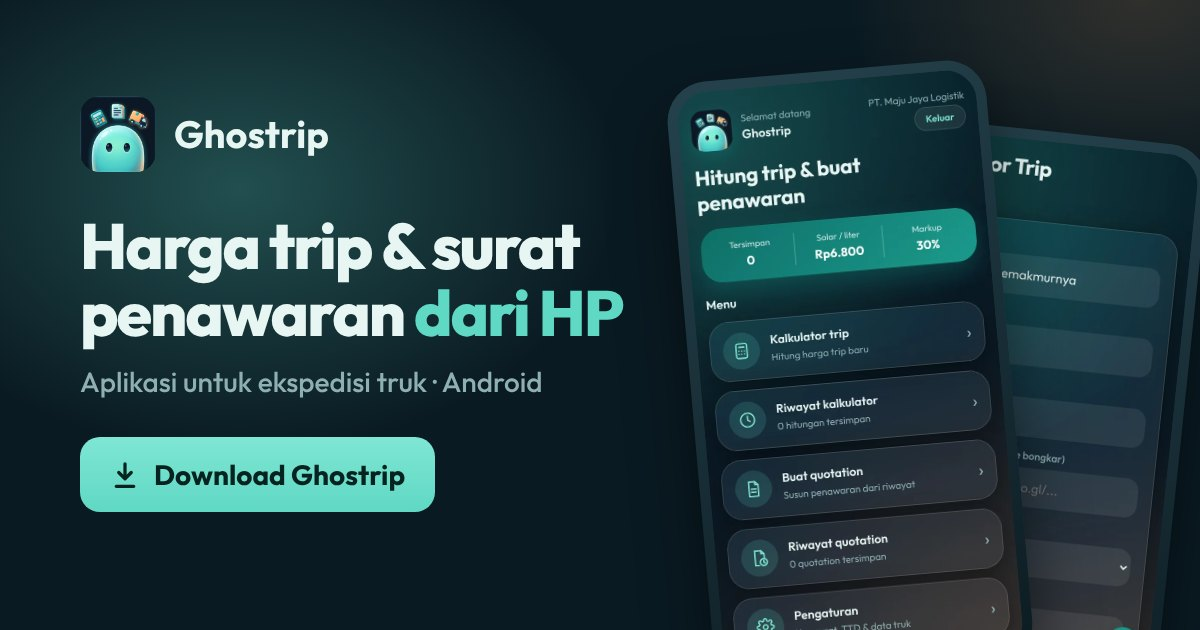
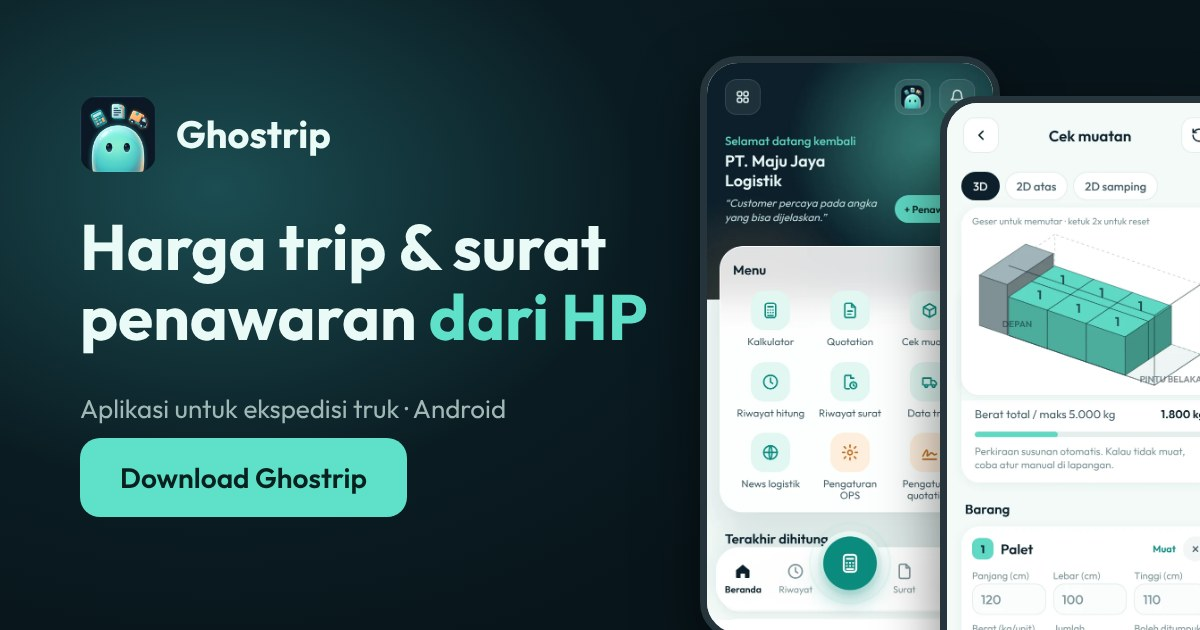
Landing page: tampilan baru Ghostrip (screenshot beranda, preview link, fitur baru)
Claude-Session: https://claude.ai/code/session_013ntjnBoovXgUwfU7gZqrMt

diff --git a/index.html b/index.html
@@ -9,7 +9,7 @@
 <meta property="og:type" content="website">
 <meta property="og:site_name" content="Ghostrip">
 <meta property="og:title" content="Ghostrip — Harga Pas, Penawaran Rapi.">
-<meta property="og:description" content="Hitung harga trip truk otomatis dan kirim surat penawaran PDF dengan kop, TTD, dan cap dari HP. Coba gratis 7 hari.">
+<meta property="og:description" content="Hitung harga trip truk otomatis, cek muatan 3D, dan kirim surat penawaran PDF dengan kop, TTD, dan cap dari HP. Coba gratis 7 hari.">
 <meta property="og:url" content="https://ghostrip.id/">
 <meta property="og:image" content="https://ghostrip.id/og.jpg">
 <meta property="og:image:width" content="1200">
@@ -323,7 +323,7 @@ footer .brand img{width:28px;height:28px;border-radius:8px}
         <div class="phone">
           <div class="screen">
             <div class="island"></div>
-            <img src="home.webp" width="640" height="1247" alt="Menu utama aplikasi Ghostrip: kalkulator trip, riwayat, quotation, dan pengaturan">
+            <img src="home.webp" width="640" height="1247" alt="Beranda aplikasi Ghostrip dengan menu kalkulator, quotation, cek muatan, data truk, dan berita logistik">
           </div>
         </div>
       </div>
@@ -366,6 +366,10 @@ footer .brand img{width:28px;height:28px;border-radius:8px}
         <div class="f rv" style="--rd:.06s"><span class="ic m"><svg width="22" height="22" viewBox="0 0 24 24" fill="none" stroke="currentColor" stroke-width="2" stroke-linecap="round" stroke-linejoin="round" aria-hidden="true"><path d="M14 2.5H7a2 2 0 0 0-2 2v15a2 2 0 0 0 2 2h10a2 2 0 0 0 2-2V7.5z"/><path d="M14 2.5v5h5M9 13h6M9 17h4"/></svg></span><div><h3>Penawaran dari riwayat</h3><p>Hasil hitungan tinggal dipilih dari riwayat, langsung masuk ke surat penawaran.</p></div></div>
         <div class="f rv" style="--rd:.12s"><span class="ic m"><svg width="22" height="22" viewBox="0 0 24 24" fill="none" stroke="currentColor" stroke-width="2" stroke-linecap="round" stroke-linejoin="round" aria-hidden="true"><circle cx="12" cy="12" r="9"/><path d="M12 7v5l3 2"/></svg></span><div><h3>Riwayat tersimpan di akun</h3><p>Hitungan dan penawaran tetap ada walaupun ganti HP. Cukup login dengan akun yang sama.</p></div></div>
         <div class="f rv" style="--rd:.18s"><span class="ic o"><svg width="22" height="22" viewBox="0 0 24 24" fill="none" stroke="currentColor" stroke-width="2" stroke-linecap="round" stroke-linejoin="round" aria-hidden="true"><path d="M3 7h11v9H3zM14 10h4l3 3v3h-7z"/><circle cx="7.5" cy="17.5" r="1.8"/><circle cx="17.5" cy="17.5" r="1.8"/></svg></span><div><h3>Data truk sendiri</h3><p>Atur jenis truk, rasio solar, tarif, dan harga solar sesuai armada perusahaan Anda.</p></div></div>
+        <div class="f rv" style="--rd:.24s"><span class="ic m"><svg width="22" height="22" viewBox="0 0 24 24" fill="none" stroke="currentColor" stroke-width="2" stroke-linecap="round" stroke-linejoin="round" aria-hidden="true"><path d="M12 2.5l8.5 4.5v10L12 21.5 3.5 17V7z"/><path d="M12 12l8.5-5M12 12v9.5M12 12L3.5 7"/></svg></span><div><h3>Cek muatan 3D</h3><p>Masukkan ukuran dan berat barang, lihat langsung muat atau tidaknya di bak truk lewat tampilan 3D dan 2D.</p></div></div>
+        <div class="f rv" style="--rd:.30s"><span class="ic o"><svg width="22" height="22" viewBox="0 0 24 24" fill="none" stroke="currentColor" stroke-width="2" stroke-linecap="round" stroke-linejoin="round" aria-hidden="true"><circle cx="12" cy="12" r="9"/><path d="M12 3v18M3 12h18"/></svg></span><div><h3>Warna tabel surat sendiri</h3><p>Pilih warna tabel penawaran dari palet atau ketik kode warnanya, sesuai warna perusahaan Anda.</p></div></div>
+        <div class="f rv" style="--rd:.36s"><span class="ic m"><svg width="22" height="22" viewBox="0 0 24 24" fill="none" stroke="currentColor" stroke-width="2" stroke-linecap="round" stroke-linejoin="round" aria-hidden="true"><rect x="4" y="3" width="16" height="18" rx="3"/><path d="M8 8h8M8 12h8M8 16h5"/></svg></span><div><h3>Armada &amp; masa berlaku dokumen</h3><p>Catat armada, STNK, dan KIR, lalu lihat dokumen yang segera habis dengan satu filter.</p></div></div>
+        <div class="f rv" style="--rd:.42s"><span class="ic o"><svg width="22" height="22" viewBox="0 0 24 24" fill="none" stroke="currentColor" stroke-width="2" stroke-linecap="round" stroke-linejoin="round" aria-hidden="true"><path d="M4 5h16v14H4z"/><path d="M8 9h8M8 13h5"/></svg></span><div><h3>Berita logistik terbaru</h3><p>Kabar solar, tarif, aturan ODOL, dan pelabuhan terbaru langsung di dalam aplikasi.</p></div></div>
       </div>
     </div>
   </section>
